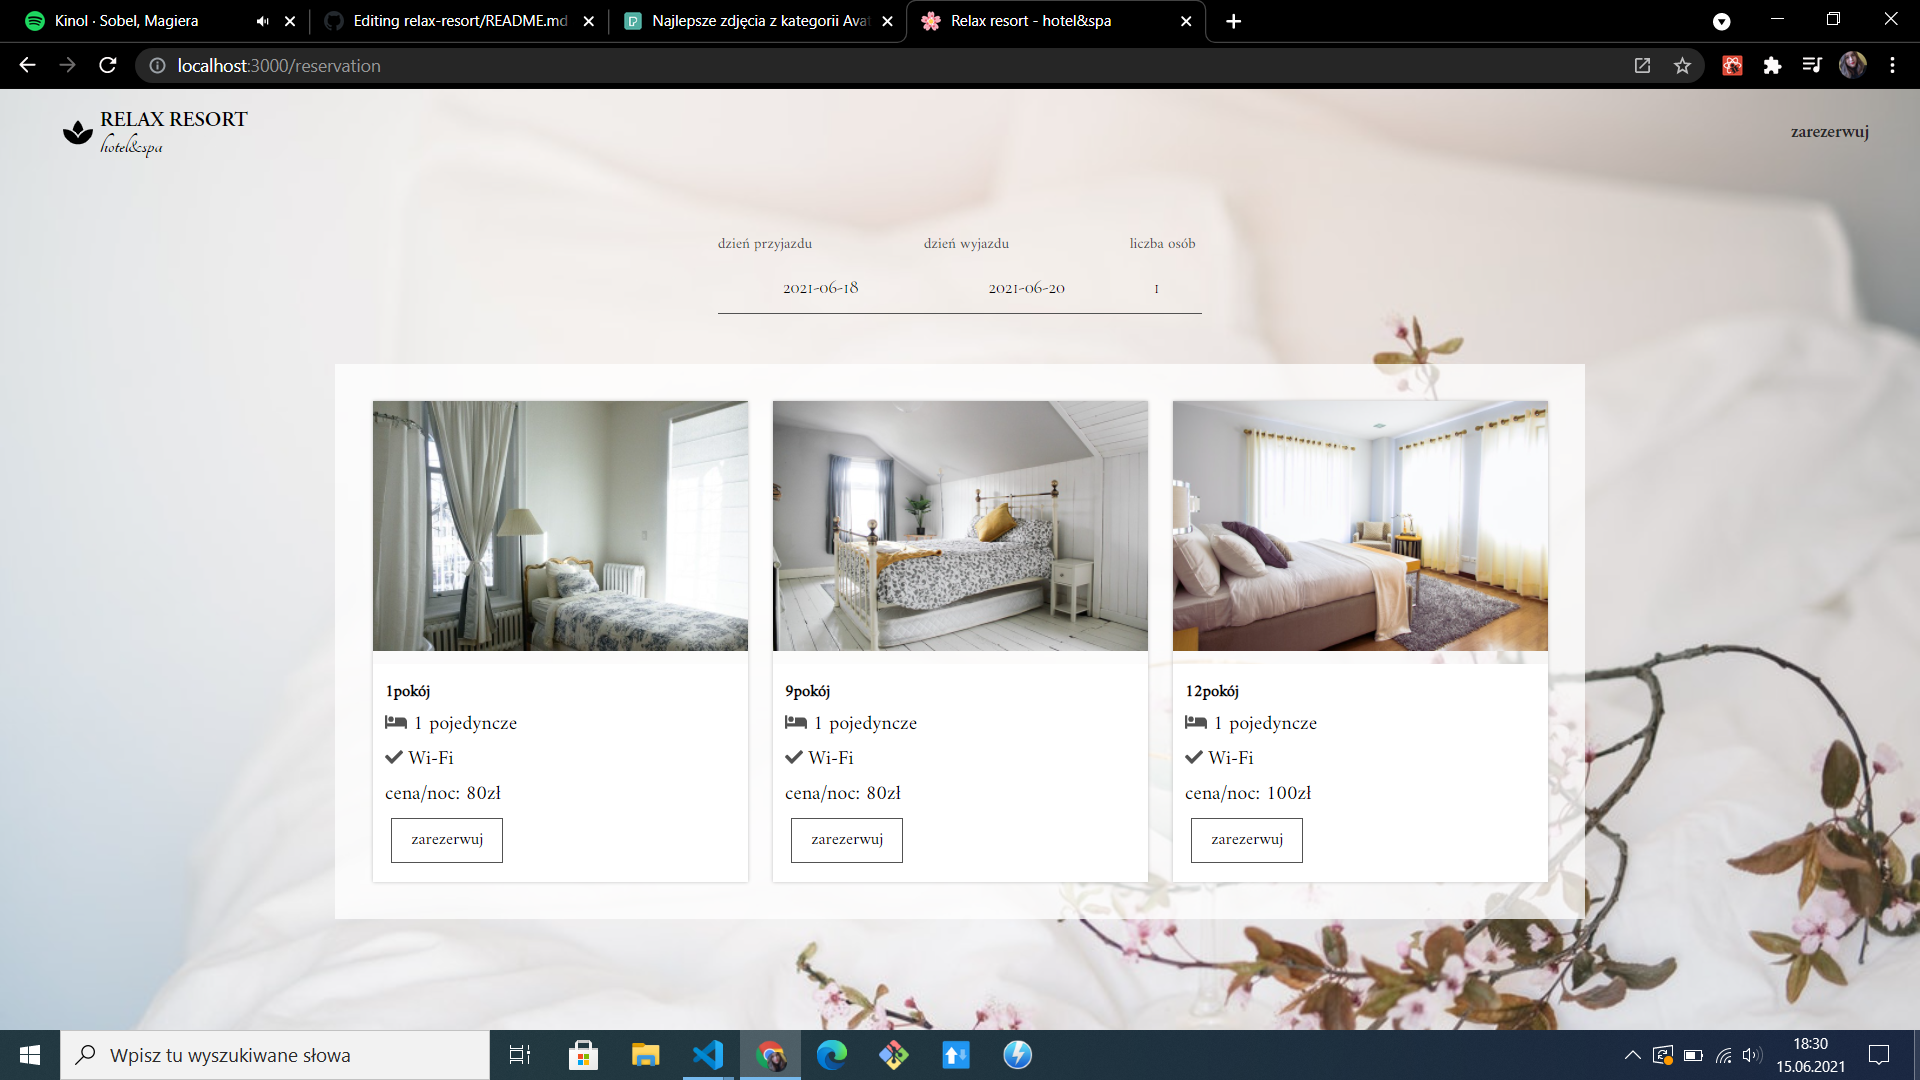
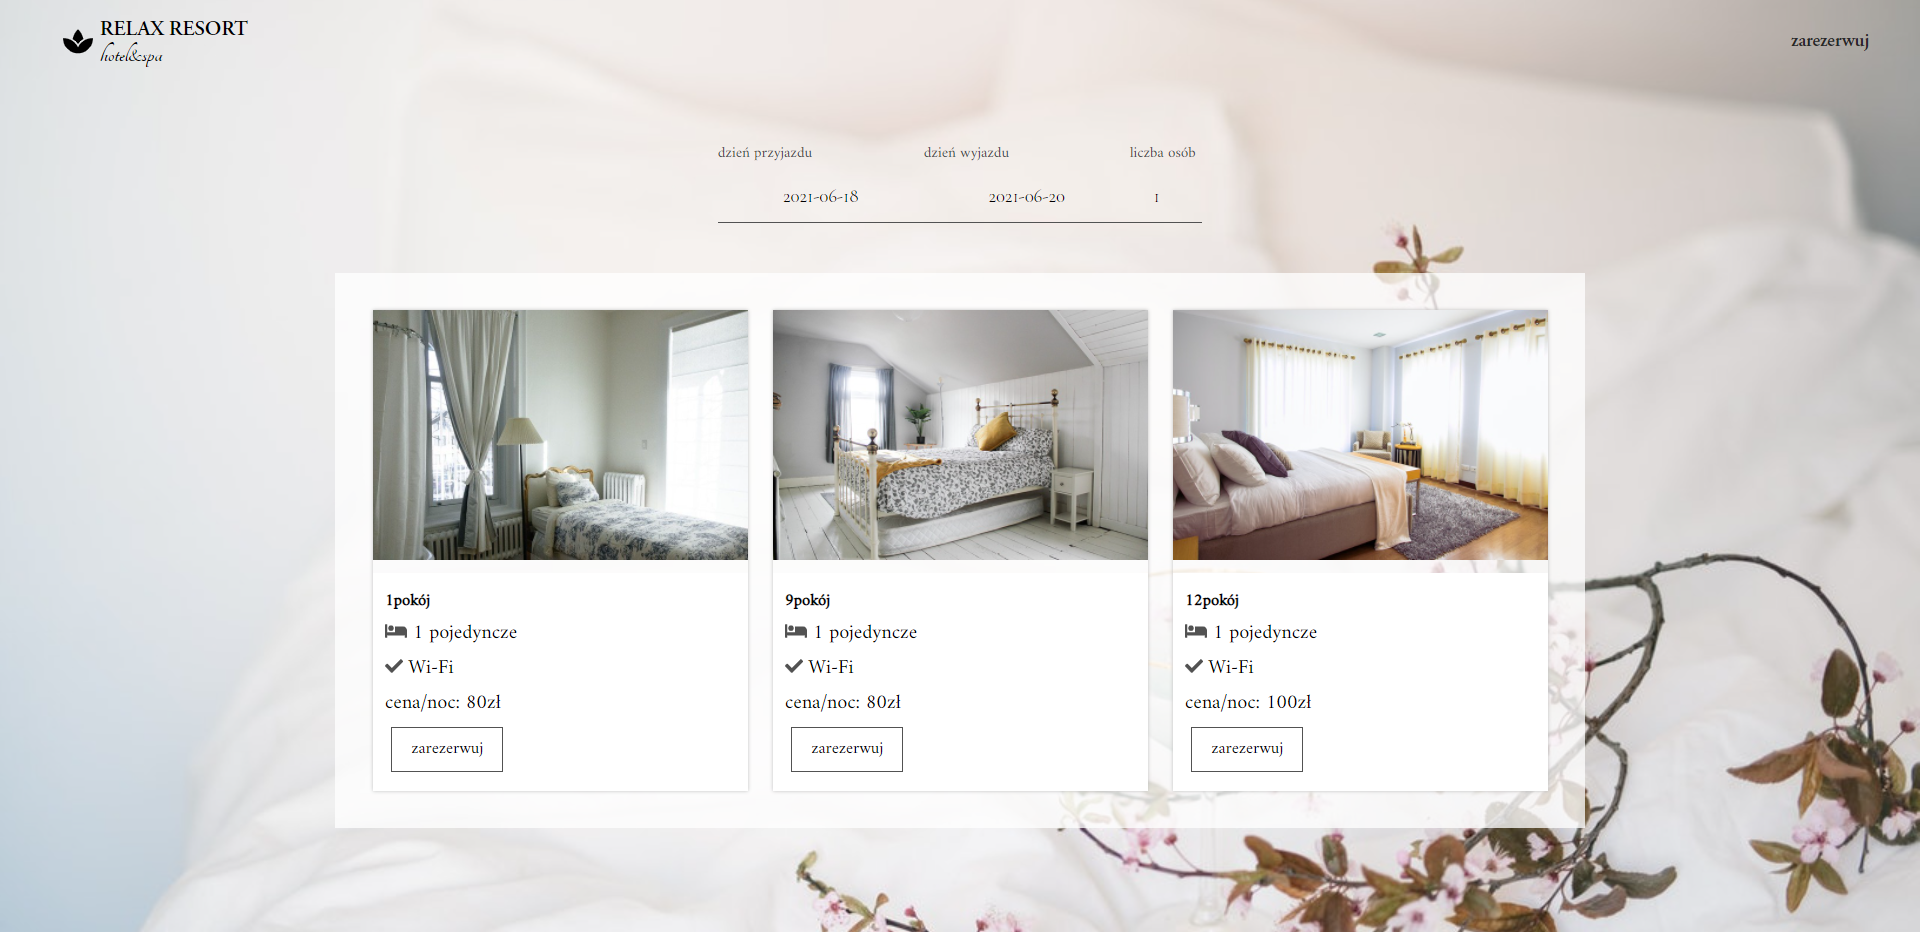
readme v2

diff --git a/README.md b/README.md
@@ -2,6 +2,8 @@
 Simple app that will allow you to book a room for your holiday.
 
 ![Alt text](./landing-page-screenshot.png?raw=true "Title")
+![Alt text](./phone-landing-page-view.png?raw=true "Title") ![Alt text](./phone-reservation-view.png?raw=true "Title")
+
 ## General info
 I created this app to improve my React skills.
 
